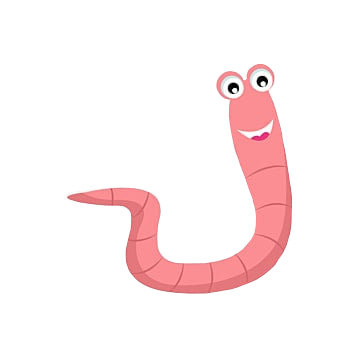
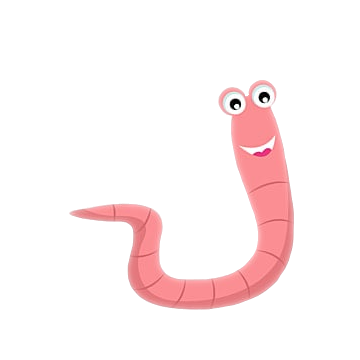
projectile

Changed region(s): [[0.1833, 0.1528, 0.825, 0.8861]]

diff --git a/jeu.py b/jeu.py
@@ -1,8 +1,10 @@
 import pygame
-from Player import player
+from player import player
+from Inventaire import Inventaire
+from Projetcile import *
 pygame.init()
 font= pygame.font.SysFont("LEMONMILK",40)
-ecran = pygame.display.set_mode((0, 0), pygame.RESIZABLE)
+screen = pygame.display.set_mode((0, 0), pygame.RESIZABLE)
 Text_color =(255,255,255)
 bgjeu = pygame.image.load("images/maps.png").convert()
 bgjeu = pygame.transform.scale(bgjeu, [1920,1080])
@@ -11,18 +13,67 @@ player= player()
 continuer = True
 def draw_texte (texte,font,text_color,x,y):
     img=font.render(texte,True,text_color)
-    ecran.blit(img,(x,y))
+    screen.blit(img,(x,y))
 
+
+
+Largeur,Hauteur=pygame.display.get_surface().get_size()
+
+ball=Projectile(500,1000,10,5,.8,'green',0,0,1)
+pos_d=500
+inventair=Inventaire()
+fpsClock=pygame.time.Clock()
 while continuer:    
     draw_texte("Quitter jeu", font, Text_color, 1000, 700)
-    ecran.blit(bgjeu, (0,0 ))
+    screen.blit(bgjeu, (0,0 ))
     # ici on crée un rectangle de couleur rose, en x=0, y=0 et de taille 300 sur 200
-    # nous verrons plus tard comment faire plus en détail :)
+    # nous verrons plus tard comment faire plus en détail :g)
     #faire apparaitre joueur
-    ecran.blit(player.image,player.rect)
+    screen.blit(player.image,player.rect)
+    
+    
+    temps=0
+    seconde=0
+    pygame.mouse.set_visible(1)
+    
     for event in pygame.event.get():
-        if event.type == pygame.MOUSEBUTTONDOWN:
-            continuer = False
+        if event.type == pygame.KEYDOWN:
+            if event.key==pygame.K_ESCAPE:
+                continuer = False
+        if event.type== pygame.KEYDOWN:
+            if event.key==pygame.K_g:
+                inventair.inven(True, screen)
+                print("oui")
+        if event.type== pygame.KEYDOWN:
+            if event.key==pygame.K_z:
+                
+                buton_clicked=0
+                
+                while  buton_clicked==0:
+                    event2= pygame.event.poll()
+                        
+                    if event2.type == pygame.MOUSEBUTTONDOWN:
+                                
+                        print("oui")  
+                                
+                        x,y =pygame.mouse.get_pos()
+                        ball.angle=ball.get_angle(x,y)
+                        print(x,y)
+                        buton_clicked=1                       
+                    while ball.z_pos<1700:
+                        print(seconde)
+                        print("45")               
+                        print("angle",ball.angle)  
+
+                        ball.lancement(screen,seconde,pos_d)
+                        seconde=(pygame.time.get_ticks() - temps) /1000
+                        pygame.display.flip()
+                       
+
+                   
+
+                
+    #fpsClock.tick(60)
     # ici on actualise l'écran, car on a affiché un rectangle rose, et on veut qu'il soit
     # visible. Si l'on avait pas mit cette instruction, on n'aurait jamais vu le rectangle !
     pygame.display.flip()

diff --git a/Projetcile.py b/Projetcile.py
@@ -1,0 +1,79 @@
+import pygame
+from math import *
+
+
+
+
+class Projectile(pygame.sprite.Sprite) :
+    def __init__(self,x_pos,z_pos,radius,mass,retention,color,x_speed,z_speed,id):
+        super().__init__()
+        self.x_pos=x_pos
+        self.z_pos=z_pos
+        self.radius=radius
+        self.color=color
+        self.mass=mass
+        self.retention=retention
+        self.x_speed=x_speed
+        self.z_speed=z_speed
+        self.id=id
+        self.circle= ''
+        self.angle=3.141592/4
+    def get_angle(self,x,y):
+
+        angle=atan(y/x)
+        return angle 
+    def draw(self,screen):
+
+        self.circle=pygame.draw.circle(screen,self.color,(self.x_pos,self.z_pos),self.radius)
+    
+    def lancement(self,screen,seconde,pos_d):
+        sol=1700
+        
+        
+
+        #self.z_speed=-9.81*seconde+sin(3.141592/6)*220
+        self.z_pos=((-9.81/2)*(seconde**2)+(sin(self.angle)*100)*seconde+pos_d)*-1+1000
+        self.x_pos=(cos(self.angle)*100)*seconde+500
+        self.draw(screen)
+        print("Z :" ,self.z_pos)
+
+
+
+
+    
+    
+    
+    
+    
+    
+    
+    
+    
+    
+    
+    
+    def vitesse_chute_libre(self,seconde):
+            self.z_speed=9.81*seconde
+
+
+    def gravity(self,largeur,seconde):
+        bounce_stop=0.2
+        if self.z_pos< largeur -self.radius :
+            self.vitesse_chute_libre(seconde)
+        else:
+            print("SoOOOOOOOOOOOOOOOOOOOOOOOOOOOOOOL")
+            if self.z_speed> bounce_stop:
+                self.z_speed=self.z_speed * (-1)* self.retention
+
+
+            else:
+                if abs(self.z_speed) <= bounce_stop:
+                    self.z_speed=0
+        print(self.z_speed)
+        return self.z_speed
+    def update(self):
+        self.z_pos+=self.z_speed
+        self.x_pos+=self.x_speed
+
+   
+        
